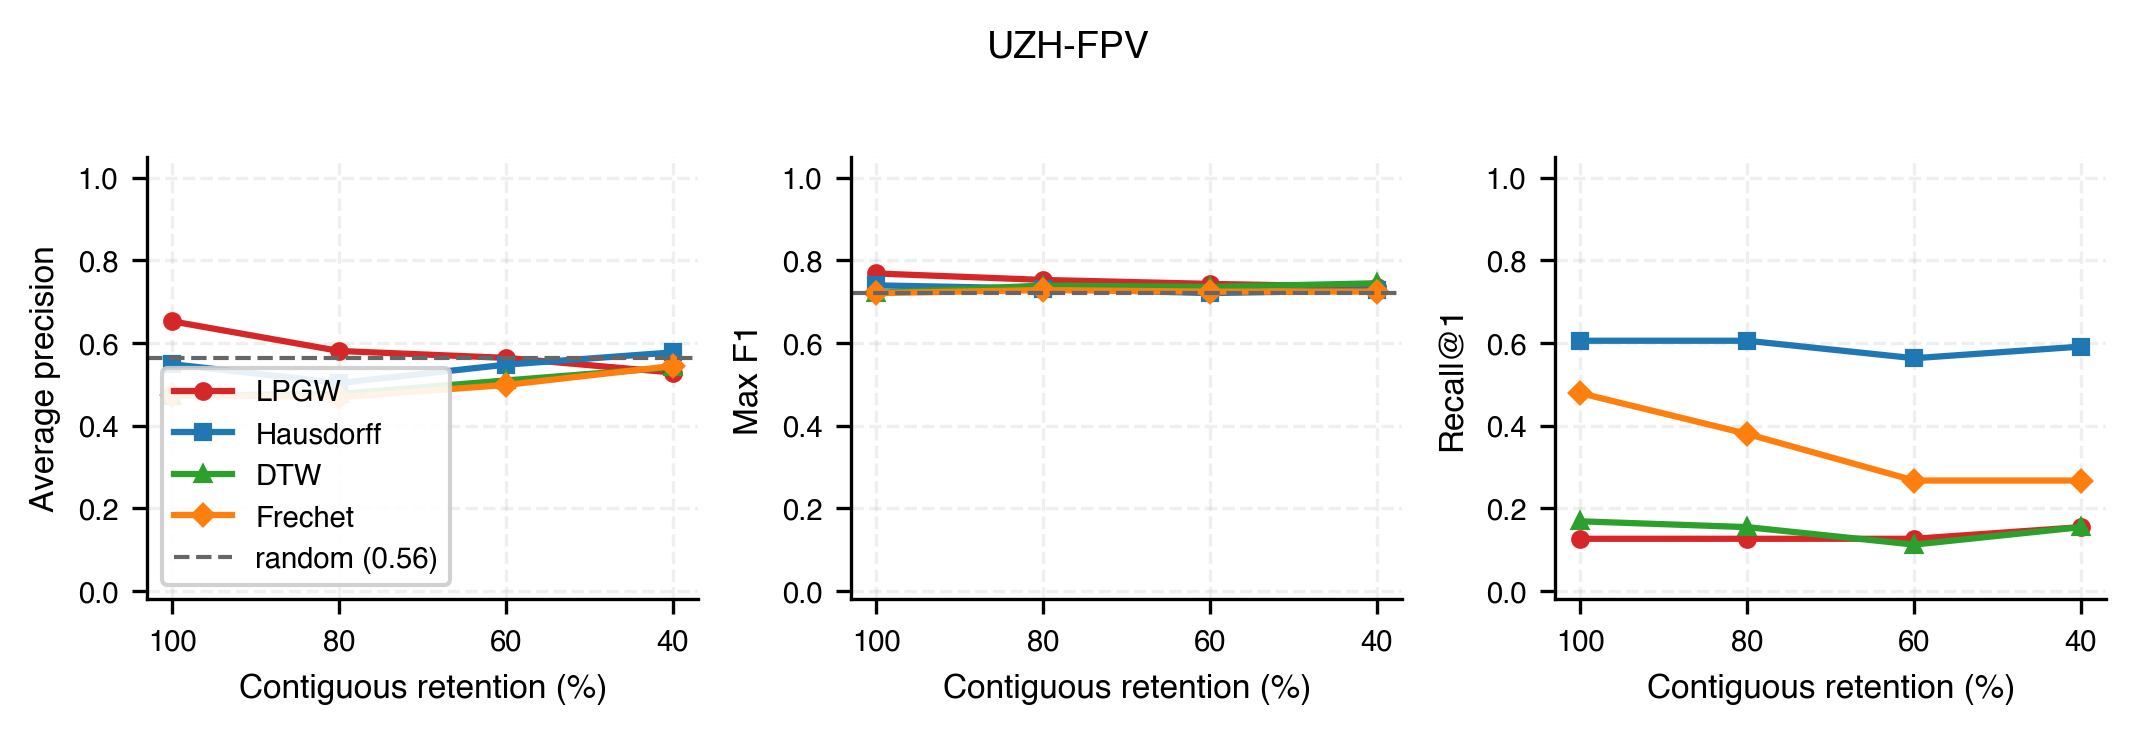
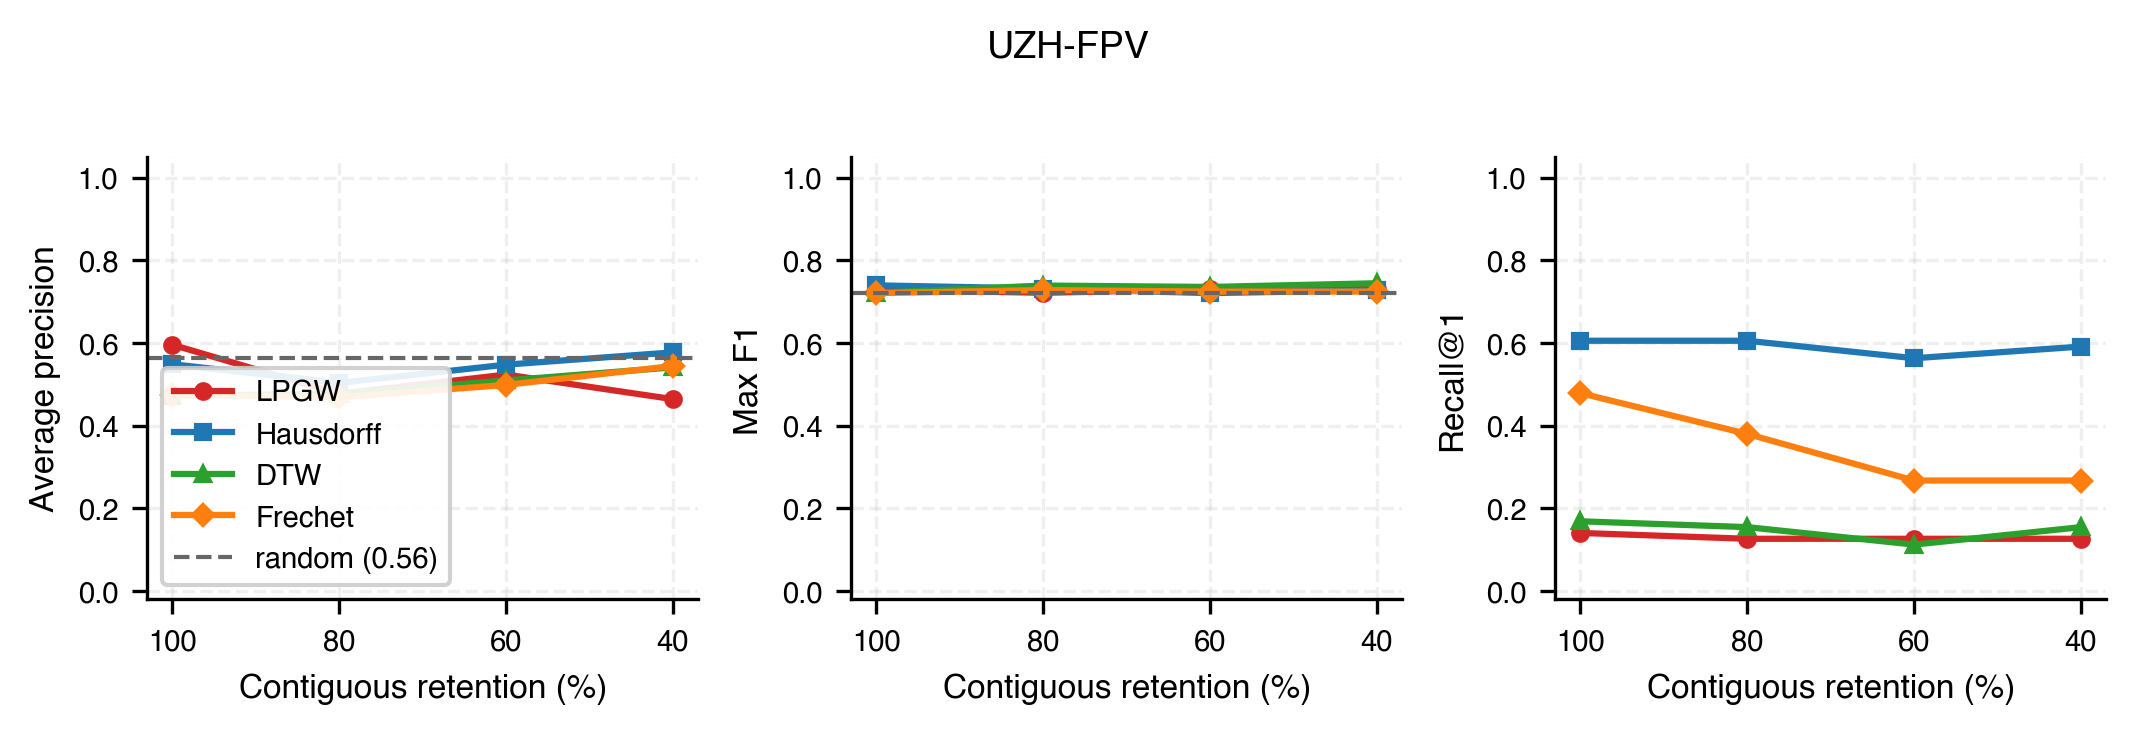
drift for uzh_fpv revised + figures regenerated

diff --git a/experiments/run_drift_experiment.py b/experiments/run_drift_experiment.py
@@ -298,10 +298,6 @@ def run_drift_experiment(center=False, fractions=None, skip_slow=False):
                 if frac == fractions[0]:  # Run only on the first iteration
                     from scipy.stats import spearmanr
                     D_new = D.copy()
-                    detector.lpgw.cost_scale = 0.03284385958583712
-                    D_old = detector.compute_distance_matrix(q_segs, r_segs)
-                    print(f"\n[CACHE CHECK] identical: {np.allclose(D_new, D_old)}")
-                    print(f"[CACHE CHECK] spearman : {spearmanr(D_new.ravel(), D_old.ravel()).correlation:.4f}\n")
             else:
                 D = fn(q_segs, r_segs)
             elapsed = time.perf_counter() - t0

diff --git a/config.py b/config.py
@@ -68,9 +68,9 @@ GT_SEGMENT_CENTER_THRESHOLD = 0.5   # secondary GT for the tolerance ablation
 # ----------------- LPGW -----------------
 
 # config.py settings for LPGW
-LPGW_LAMBDA = 2.0  #uzhfpv
+LPGW_LAMBDA = 1.0  #uzhfpv
 # LPGW_LAMBDA = 1.0          # kitti
-LPGW_DISTANCE_LAMBDA = 0.5 #uzhfpv
+LPGW_DISTANCE_LAMBDA = 0.2 #uzhfpv
 # LPGW_DISTANCE_LAMBDA = 0.2   # kitti
 LPGW_SEGMENT_POINTS = 100    # Upgraded from 50 to prevent heavy smoothing on aggressive flight
 
